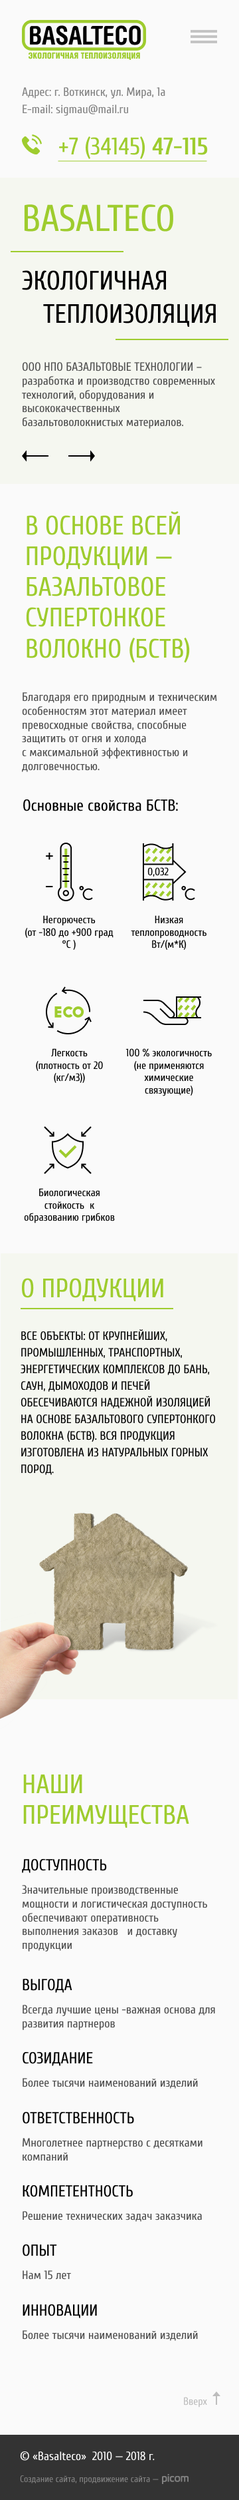
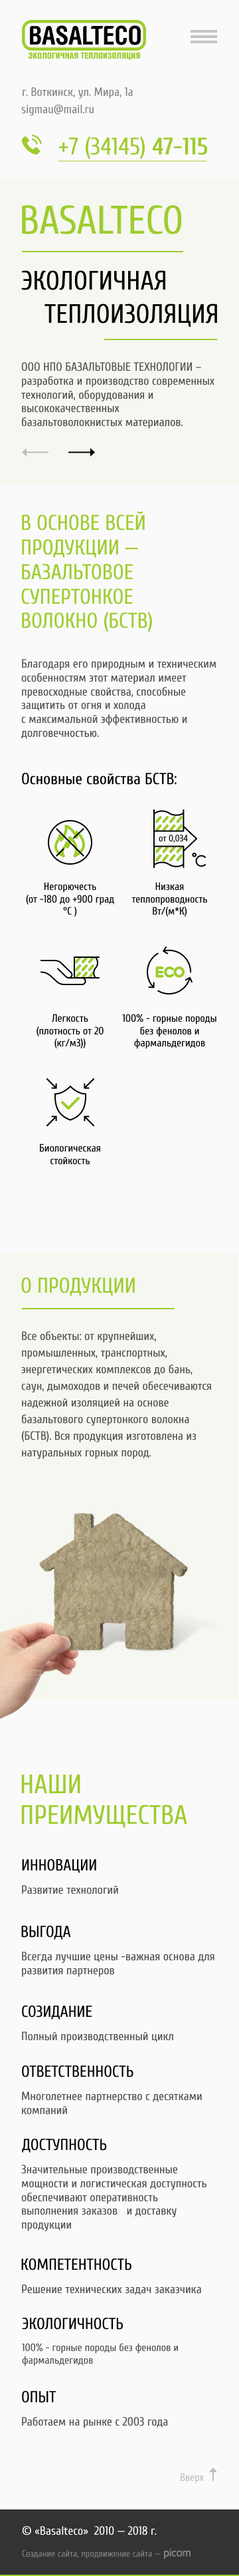
new_fix

diff --git a/app/images/sprite.symbol.html b/app/images/sprite.symbol.html
@@ -67,7 +67,7 @@ for further details on how to create this embeddable sprite variant.
 		<symbol viewBox="0 0 18 15" id="back-arrow" xmlns="http://www.w3.org/2000/svg"><title>back-arrow</title><desc>Created using Figma</desc><use xlink:href="#ca"/><defs><path id="ca" d="M7 4V0L0 7l7 7V9.9c5 0 8.5 1.6 11 5.1-1-5-4-10-11-11z"/></defs></symbol>
 		<symbol viewBox="0 0 510 510" id="email" xmlns="http://www.w3.org/2000/svg"><path d="M459 51H51C22.95 51 0 73.95 0 102v306c0 28.05 22.95 51 51 51h408c28.05 0 51-22.95 51-51V102c0-28.05-22.95-51-51-51zm0 102L255 280.5 51 153v-51l204 127.5L459 102v51z"/></symbol>
 		<symbol viewBox="0 0 30 30" id="fb" xmlns="http://www.w3.org/2000/svg"><title>facebook</title><desc>Created using Figma</desc><g transform="translate(-11073 -4876)"><use xmlns:xlink="http://www.w3.org/1999/xlink" xlink:href="#path0_fill" transform="translate(11073 4876)" fill="#FFF"/><use xlink:href="#path1_fill" transform="translate(11073 4876)" fill="#3A559F"/></g></symbol>
-		<symbol viewBox="0 0 72 72" id="icon_bio" xmlns="http://www.w3.org/2000/svg"><title>icon_bio</title><desc>Created using Figma</desc><g transform="translate(-279 -4283)"><use xlink:href="#fa" transform="translate(303 4313)" fill="#9ECC2E"/><use xlink:href="#fb" transform="translate(292 4295)"/><use xlink:href="#fc" transform="translate(280 4284)"/><use xlink:href="#fd" transform="translate(287.522 4291.47)"/><use xlink:href="#fe" transform="translate(336.325 4284)"/><use xlink:href="#ff" transform="translate(336.318 4291.55)"/><use xlink:href="#fg" transform="translate(336.325 4340.32)"/><use xlink:href="#fh" transform="translate(336.354 4340.37)"/><use xlink:href="#fi" transform="translate(280 4340.32)"/><use xlink:href="#fj" transform="translate(287.53 4340.32)"/></g><defs><path id="fa" d="M9.045 15l-1.399 1.43 1.417 1.386 1.399-1.404L9.045 15zM-1.399 7.574l9.045 8.855 2.799-2.858-9.046-8.855-2.798 2.858zm11.86 8.838l14.955-15-2.832-2.824-14.955 15 2.833 2.824z"/><path id="fb" d="M23 0l.741-.671-.741-.82-.742.82L23 0zM0 11.379v-1h-1v1h1zM23 50.5l-.338.941.338.121.338-.12L23 50.5zm23-39.121h1v-1h-1v1zM23 0c-.742-.67-.741-.67-.741-.671h-.001l-.004.005a8.334 8.334 0 0 1-.1.108 35.615 35.615 0 0 1-1.636 1.599 43.7 43.7 0 0 1-4.816 3.823C11.617 7.656 6.067 10.379 0 10.379v2c6.643 0 12.593-2.967 16.83-5.864a45.692 45.692 0 0 0 5.04-4 37.51 37.51 0 0 0 1.376-1.325 24.027 24.027 0 0 0 .485-.507l.007-.008.002-.003h.001L23 0zM-1 11.379v2.114h2v-2.114h-2zm0 2.114c0 7.762.877 15.453 4.298 22.114 3.44 6.7 9.402 12.258 19.364 15.834l.676-1.882C13.8 46.135 8.262 40.895 5.078 34.693 1.872 28.453 1 21.14 1 13.493h-2zM23.338 51.44c9.962-3.576 15.923-9.134 19.364-15.834C46.122 28.947 47 21.255 47 13.493h-2c0 7.647-.873 14.96-4.077 21.2-3.184 6.202-8.723 11.442-18.26 14.866l.675 1.882zM47 13.493v-2.114h-2v2.114h2zm-1-3.114c-6.063 0-11.613-2.723-15.699-5.515a43.762 43.762 0 0 1-4.818-3.823A35.69 35.69 0 0 1 24.18-.213a21.762 21.762 0 0 1-.415-.433l-.02-.02-.003-.005L23 0c-.741.671-.741.671-.74.672l.002.003a1.73 1.73 0 0 1 .033.036l.096.103a37.588 37.588 0 0 0 1.74 1.702 45.751 45.751 0 0 0 5.042 3.999C33.41 9.412 39.36 12.379 46 12.379v-2z"/><path id="fc" d="M-.707.707L12.968 14.39l1.415-1.413L.707-.707-.707.707z"/><path id="fd" d="M6.127 6.158v1h1v-1h-1zM5.127 0v6.158h2V0h-2zm1 5.158H0v2h6.127v-2z"/><path id="fe" d="M12.968-.707L-.707 12.977.707 14.39 14.383.707 12.968-.707z"/><path id="ff" d="M0 6.13h-1v1h1v-1zm6.154-1H0v2h6.154v-2zM1 6.13V0h-2v6.13h2z"/><path id="fg" d="M14.383 12.977L.707-.707-.707.707 12.968 14.39l1.415-1.413z"/><path id="fh" d="M0 0v-1h-1v1h1zm1 6.158V0h-2v6.158h2zM0 1h6.125v-2H0v2z"/><path id="fi" d="M.707 14.39L14.383.707 12.968-.707-.707 12.977.707 14.39z"/><path id="fj" d="M6.152 0h1v-1h-1v1zM0 1h6.152v-2H0v2zm5.152-1v6.129h2V0h-2z"/></defs></symbol>
+		<symbol viewBox="0 0 72 72" id="icon_bio" xmlns="http://www.w3.org/2000/svg"><title>icon_bio</title><desc>Created using Figma</desc><g transform="translate(-283 -4211)"><use xlink:href="#fa" transform="translate(307 4241)" fill="#9ECC2E"/><use xlink:href="#fb" transform="translate(296 4223)"/><use xlink:href="#fc" transform="translate(284 4212)"/><use xlink:href="#fd" transform="translate(291.522 4219.47)"/><use xlink:href="#fe" transform="translate(340.325 4212)"/><use xlink:href="#ff" transform="translate(340.318 4219.55)"/><use xlink:href="#fg" transform="translate(340.325 4268.32)"/><use xlink:href="#fh" transform="translate(340.354 4268.37)"/><use xlink:href="#fi" transform="translate(284 4268.32)"/><use xlink:href="#fj" transform="translate(291.53 4268.32)"/></g><defs><path id="fa" d="M1.4 4.716a2 2 0 1 0-2.8 2.858l2.8-2.858zM9.044 15l-1.399 1.43a2 2 0 0 0 2.816-.018L9.045 15zM25.416 1.412a2 2 0 0 0-2.832-2.824l2.832 2.824zM-1.399 7.574l9.045 8.855 2.799-2.858-9.046-8.855-2.798 2.858zm11.86 8.838l14.955-15-2.832-2.824-14.955 15 2.833 2.824z"/><path id="fb" d="M23 0l.741-.671a1 1 0 0 0-1.483 0L23 0zM0 11.379v-1a1 1 0 0 0-1 1h1zM23 50.5l-.338.941a1 1 0 0 0 .676 0L23 50.5zm23-39.121h1a1 1 0 0 0-1-1v1zM23 0c-.742-.67-.741-.67-.741-.671h-.001l-.004.005a8.334 8.334 0 0 1-.1.108 35.615 35.615 0 0 1-1.636 1.599 43.7 43.7 0 0 1-4.816 3.823C11.617 7.656 6.067 10.379 0 10.379v2c6.643 0 12.593-2.967 16.83-5.864a45.692 45.692 0 0 0 5.04-4 37.51 37.51 0 0 0 1.376-1.325 24.027 24.027 0 0 0 .485-.507l.007-.008.002-.003h.001L23 0zM-1 11.379v2.114h2v-2.114h-2zm0 2.114c0 7.762.877 15.453 4.298 22.114 3.44 6.7 9.402 12.258 19.364 15.834l.676-1.882C13.8 46.135 8.262 40.895 5.078 34.693 1.872 28.453 1 21.14 1 13.493h-2zM23.338 51.44c9.962-3.576 15.923-9.134 19.364-15.834C46.122 28.947 47 21.255 47 13.493h-2c0 7.647-.873 14.96-4.077 21.2-3.184 6.202-8.723 11.442-18.26 14.866l.675 1.882zM47 13.493v-2.114h-2v2.114h2zm-1-3.114c-6.063 0-11.613-2.723-15.699-5.515a43.762 43.762 0 0 1-4.818-3.823A35.69 35.69 0 0 1 24.18-.213a21.762 21.762 0 0 1-.415-.433l-.02-.02-.003-.005L23 0c-.741.671-.741.671-.74.672l.002.003a1.73 1.73 0 0 1 .033.036l.096.103a37.588 37.588 0 0 0 1.74 1.702 45.751 45.751 0 0 0 5.042 3.999C33.41 9.412 39.36 12.379 46 12.379v-2z"/><path id="fc" d="M.707-.707A1 1 0 0 0-.707.707L.707-.707zm12.26 15.098a1 1 0 0 0 1.415-1.414l-1.414 1.413zM-.706.707L12.968 14.39l1.415-1.413L.707-.707-.707.707z"/><path id="fd" d="M7.127 0a1 1 0 0 0-2 0h2zm-1 6.158v1a1 1 0 0 0 1-1h-1zM0 5.158a1 1 0 1 0 0 2v-2zM5.127 0v6.158h2V0h-2zm1 5.158H0v2h6.127v-2z"/><path id="fe" d="M14.383.707a1 1 0 0 0-1.415-1.414L14.383.707zm-15.09 12.27A1 1 0 1 0 .707 14.39l-1.414-1.413zM12.968-.707L-.707 12.977.707 14.39 14.383.707 12.968-.707z"/><path id="ff" d="M6.154 7.13a1 1 0 1 0 0-2v2zM0 6.13h-1a1 1 0 0 0 1 1v-1zM1 0a1 1 0 0 0-2 0h2zm5.154 5.13H0v2h6.154v-2zM1 6.13V0h-2v6.13h2z"/><path id="fg" d="M12.968 14.39a1 1 0 0 0 1.415-1.413l-1.415 1.413zM.708-.707A1 1 0 1 0-.708.707L.707-.707zm13.675 13.684L.707-.707-.707.707 12.968 14.39l1.415-1.413z"/><path id="fh" d="M-1 6.158a1 1 0 0 0 2 0h-2zM0 0v-1a1 1 0 0 0-1 1h1zm6.125 1a1 1 0 1 0 0-2v2zM1 6.158V0h-2v6.158h2zM0 1h6.125v-2H0v2z"/><path id="fi" d="M-.707 12.977A1 1 0 0 0 .707 14.39l-1.414-1.413zM14.383.707a1 1 0 0 0-1.415-1.414L14.383.707zM.707 14.39L14.382.707 12.969-.707-.707 12.977.707 14.39z"/><path id="fj" d="M0-1a1 1 0 1 0 0 2v-2zm6.152 1h1a1 1 0 0 0-1-1v1zm-1 6.129a1 1 0 1 0 2 0h-2zM0 1h6.152v-2H0v2zm5.152-1v6.129h2V0h-2z"/></defs></symbol>
 		<symbol viewBox="0 0 69 72" id="icon_eco" xmlns="http://www.w3.org/2000/svg"><title>icon_eco</title><desc>Created using Figma</desc><g transform="translate(-282 -4073)"><use xlink:href="#ga" transform="translate(310.174 4105.05)" fill="#9ECC2E"/><use xlink:href="#gb" transform="translate(324.544 4105.05)" fill="#9ECC2E"/><use xlink:href="#gc" transform="translate(297.51 4105.05)" fill="#9ECC2E"/><use xlink:href="#gd" transform="translate(297.51 4111.35)" fill="#9ECC2E"/><use xlink:href="#ge" transform="translate(307.113 4078.71)"/><use xlink:href="#gf" transform="translate(283 4083.41)"/><use xlink:href="#gg" transform="translate(299.187 4119.8)"/><use xlink:href="#gh" transform="translate(307.113 4074)"/><use xlink:href="#gi" transform="translate(285.535 4127.39)"/><use xlink:href="#gj" transform="translate(340.807 4119.8)"/></g><defs><path id="ga" d="M9.306 9.349a4.274 4.274 0 0 1-2.191 1.175l.784 3.923a8.275 8.275 0 0 0 4.24-2.276L9.307 9.35zm-2.191 1.175a4.26 4.26 0 0 1-2.47-.244L3.11 13.974a8.26 8.26 0 0 0 4.789.473l-.784-3.923zm-2.47-.244a4.286 4.286 0 0 1-1.922-1.583l-3.33 2.217a8.286 8.286 0 0 0 3.717 3.06l1.535-3.694zM2.723 8.697A4.32 4.32 0 0 1 2 6.303h-4a8.32 8.32 0 0 0 1.394 4.611l3.33-2.217zM2 6.303c0-.852.252-1.685.723-2.393l-3.33-2.217A8.32 8.32 0 0 0-2 6.303h4zm.723-2.393a4.286 4.286 0 0 1 1.922-1.584L3.11-1.367a8.286 8.286 0 0 0-3.716 3.06l3.33 2.217zm1.922-1.584a4.26 4.26 0 0 1 2.47-.243l.784-3.923a8.26 8.26 0 0 0-4.789.473l1.535 3.693zm2.47-.243a4.274 4.274 0 0 1 2.19 1.175L12.14.435A8.274 8.274 0 0 0 7.899-1.84l-.784 3.923z"/><path id="gb" d="M10.562 6.303c0 2.384-1.924 4.304-4.281 4.304v4c4.58 0 8.28-3.724 8.28-8.304h-4zM6.28 10.607C3.923 10.607 2 8.687 2 6.303h-4c0 4.58 3.7 8.304 8.28 8.304v-4zM2 6.303C2 3.92 3.923 2 6.28 2v-4C1.7-2-2 1.724-2 6.303h4zM6.28 2c2.358 0 4.282 1.92 4.282 4.303h4C14.562 1.724 10.86-2 6.28-2v4z"/><path id="gc" d="M0 0v-2h-2v2h2zm0 12.607h-2v2h2v-2zM7.82-2H0v4h7.82v-4zM-2 0v6.303h4V0h-4zm0 6.303v6.304h4V6.303h-4zm2 8.304h7.82v-4H0v4z"/><path id="gd" d="M7.82-2H0v4h7.82v-4z"/><path id="ge" d="M.259 2.07a31.444 31.444 0 0 1 14.307-.458l.393-1.96A33.444 33.444 0 0 0-.259.137L.26 2.07zm14.307-.458c4.742.95 9.202 2.98 13.038 5.935l1.22-1.585A33.503 33.503 0 0 0 14.96-.348l-.393 1.96zm13.038 5.935a31.65 31.65 0 0 1 9.084 11.107l1.795-.883a33.65 33.65 0 0 0-9.659-11.809l-1.22 1.585zm9.084 11.107a31.772 31.772 0 0 1 3.26 13.993l2-.002a33.773 33.773 0 0 0-3.465-14.874l-1.795.883z"/><path id="gf" d="M10.242 50.324a31.662 31.662 0 0 1-7.515-12.055l-1.891.65a33.661 33.661 0 0 0 7.99 12.817l1.416-1.412zM2.727 38.269A31.755 31.755 0 0 1 1.23 24.127l-1.986-.24A33.755 33.755 0 0 0 .836 38.919l1.89-.65zM1.23 24.127a31.719 31.719 0 0 1 4.824-13.372L4.372 9.672A33.719 33.719 0 0 0-.756 23.887l1.986.24zm4.824-13.372a31.58 31.58 0 0 1 10.17-9.9l-1.038-1.71A33.58 33.58 0 0 0 4.372 9.672l1.682 1.083z"/><path id="gg" d="M46.811-.258a31.703 31.703 0 0 1-6.771 12.691l1.505 1.318c3.4-3.884 5.863-8.5 7.198-13.493l-1.932-.516zM40.04 12.433a31.551 31.551 0 0 1-11.668 8.37l.765 1.848a33.552 33.552 0 0 0 12.408-8.9l-1.505-1.318zm-11.668 8.37a31.444 31.444 0 0 1-14.154 2.32l-.135 1.996a33.443 33.443 0 0 0 15.054-2.468l-.765-1.848zm-14.154 2.32A31.464 31.464 0 0 1 .503 18.915l-1.006 1.728a33.464 33.464 0 0 0 14.586 4.476l.135-1.996z"/><path id="gh" d="M0 5.81l-.826-.563-.594.872.902.546L0 5.81zM3.13-.563l-3.956 5.81L.826 6.373 4.784.563 3.13-.563zM-.517 6.665l6.021 3.646L6.54 8.6.518 4.954-.518 6.665z"/><path id="gi" d="M6.991 7.057l-.076.997 1.056.081.02-1.058-1-.02zm-7.067.463l6.991.534.153-1.994-6.992-.534-.152 1.994zm8.067-.443L8.13.019l-2-.038-.138 7.057 2 .039z"/><path id="gj" d="M6.157 0l.902-.432-.458-.957-.929.514.485.875zm3.938 5.91L7.059-.431 5.255.432 8.29 6.774l1.804-.863zM5.672-.874l-6.157 3.41.97 1.75L6.64.875l-.969-1.75z"/></defs></symbol>
 		<symbol viewBox="0 0 88 43" id="icon_l" xmlns="http://www.w3.org/2000/svg"><title>icon_l</title><desc>Created using Figma</desc><g transform="translate(-428 -4088)"><use xlink:href="#ha" transform="translate(482 4090)" fill="#9ECC2E"/><use xlink:href="#hb" transform="translate(429 4094)"/><use xlink:href="#hc" transform="translate(429 4111.49)"/><use xlink:href="#hd" transform="translate(479 4089)"/><use xlink:href="#he" transform="translate(508.559 4089)"/><use xlink:href="#hf" transform="translate(506 4120)"/></g><defs><path id="ha" d="M3.654-1.282l-5.189 6.21 3.07 2.564 5.188-6.21-3.07-2.564zm9.906 0l-5.19 6.21 3.07 2.564 5.19-6.21-3.07-2.564zm9.905 0l-5.189 6.21 3.07 2.564 5.189-6.21-3.07-2.564zM3.654 10.573l-5.189 6.21 3.07 2.565 5.188-6.21-3.07-2.565zm9.906 0l-5.19 6.21 3.07 2.565 5.19-6.21-3.07-2.565zm9.905 0l-5.189 6.21 3.07 2.565 5.189-6.21-3.07-2.565zM3.654 21.508l-5.189 6.21 3.07 2.564 5.188-6.21-3.07-2.564zm9.906 0l-5.19 6.21 3.07 2.564 5.19-6.21-3.07-2.564zm9.905 0l-5.189 6.21 3.07 2.564 5.189-6.21-3.07-2.564z"/><path id="hb" d="M20.447 0v1h.003l-.003-1zm10.005 4.007l.695-.719-.002-.002-.693.721zM44.883 17.96l-.695.72.005.004.69-.724zm-3.498 8.164v1-1zm-3.497-1.401l-.695.719.004.004.691-.723zM0 1h20.447v-2H0v2zm20.45 0a13.399 13.399 0 0 1 9.31 3.729l1.385-1.443A15.398 15.398 0 0 0 20.445-1l.005 2zm9.307 3.726l14.43 13.952 1.391-1.438-14.43-13.952-1.39 1.438zm14.436 13.957c.36.343.647.756.842 1.213l1.839-.788a5.68 5.68 0 0 0-1.3-1.872l-1.381 1.447zm.842 1.213c.196.457.297.948.297 1.445h2c0-.768-.156-1.527-.458-2.233l-1.839.788zm.297 1.445c0 .496-.1.987-.297 1.444l1.839.788a5.669 5.669 0 0 0 .458-2.232h-2zm-.297 1.444c-.195.457-.482.87-.842 1.213l1.38 1.448a5.68 5.68 0 0 0 1.3-1.873l-1.838-.788zM44.192 24a4.063 4.063 0 0 1-2.806 1.124v2c1.56 0 3.06-.6 4.188-1.678L44.192 24zm-2.806 1.124a4.063 4.063 0 0 1-2.807-1.124l-1.382 1.446a6.063 6.063 0 0 0 4.188 1.678v-2zm-2.803-1.12l-12.78-12.36-1.39 1.438 12.78 12.36 1.39-1.438z"/><path id="hc" d="M13.588 5.182l.671-.742-.003-.003-.668.745zm10.17 9.192l-.67.742.003.002.668-.744zm10.86 4.14v-1h-.003l.002 1zM.002 1a19.284 19.284 0 0 1 12.919 4.926l1.335-1.489A21.285 21.285 0 0 0-.002-1l.004 2zm12.916 4.924l10.17 9.191 1.341-1.483L14.26 4.44l-1.341 1.484zm10.173 9.194a17.209 17.209 0 0 0 11.529 4.397l-.005-2a15.209 15.209 0 0 1-10.188-3.886l-1.336 1.489zm11.526 4.397H61.58v-2H34.618v2zm26.963 0c3.342 0 6.107-2.627 6.107-5.939h-2c0 2.145-1.806 3.939-4.107 3.939v2zm6.107-5.939c0-3.312-2.775-5.938-6.107-5.938v2c2.294 0 4.107 1.795 4.107 3.938h2zM61.58 7.638H40.742v2H61.58v-2z"/><path id="hd" d="M32.02 31v1h2.112l-1.338-1.634-.774.634zm.075-14.977l-.774-.633-.004.005.778.628zm.136-.166l.774.632.002-.002-.776-.63zM31.454.033l.721-.692-.256-.268-.37-.035-.095.995zM31.11 0l.096-.995L31.158-1h-.048v1zM0 0v-1h-1v1h1zm0 31h-1v1h1v-1zm32.794-.634c-3.437-4.197-3.352-9.466.08-13.715l-1.557-1.256c-3.999 4.953-4.134 11.276-.07 16.239l1.547-1.268zm.076-13.711l.136-.166-1.55-1.265-.135.166 1.55 1.265zm.137-.168c2.074-2.554 3.13-5.59 2.979-8.689l-1.998.098c.126 2.565-.743 5.125-2.534 7.33l1.553 1.261zm2.979-8.689c-.153-3.098-1.502-6.05-3.81-8.457L30.731.725c2.011 2.098 3.13 4.604 3.256 7.171l1.998-.098zM31.55-.962l-.344-.033-.192 1.99.344.034.192-1.991zM31.11-1H0v2h31.11v-2zM-1 0v31h2V0h-2zm1 32h32.02v-2H0v2z"/><path id="he" d="M0 1h7.44v-2H0v2z"/><path id="hf" d="M0 1h10v-2H0v2z"/></defs></symbol>
 		<symbol viewBox="0 0 67 67" id="icon_tem" xmlns="http://www.w3.org/2000/svg"><title>icon_nonf</title><desc>Created using Figma</desc><g transform="translate(-285 -3883)"><use xlink:href="#ia" transform="translate(297 3892)" fill="#9ECC2E"/><mask id="ic"><use xlink:href="#ib" fill="#fff" transform="rotate(180 176 1975)"/></mask><g mask="url(#ic)"><use xlink:href="#id" transform="rotate(180 176 1975)"/></g><use xlink:href="#ie" transform="rotate(180 154.225 1968.3)"/><use xlink:href="#if" transform="rotate(180 169.3 1954.9)"/><g><use xlink:href="#ig" transform="rotate(90 -1778.9 2117.5)"/></g></g><defs><path id="ia" d="M11.824 45l-.913 1.78a2 2 0 0 0 2.681-2.714L11.824 45zm.97-12.899l1.599 1.202-1.599-1.202zm3.413-7.182l1.528-1.291a2 2 0 0 0-3.49.907l1.962.384zm1.28 6.47l-1.955-.422a2 2 0 0 0 3.378 1.828l-1.423-1.406zM21 17.154l1.073-1.687a2 2 0 0 0-3.016 2.162L21 17.154zM28.65 45l-1.742-.983a2 2 0 0 0 2.657 2.761L28.65 45zm3.078-35.804l1.105-1.667a2 2 0 0 0-2.892 2.565l1.787-.898zm-.945 7.958l-1.921.557a2 2 0 0 0 3.18.998l-1.259-1.555zM15.366 0l.616-1.903a2 2 0 0 0-2.59 2.227L15.366 0zm-7.29 21.129l-1.996.129a2 2 0 0 0 3.485 1.206L8.076 21.13zm-1.963-7.308l1.713-1.033a2 2 0 0 0-3.707.891l1.994.143zM.403 27.95l1.95.443-1.95-.443zm13.19 16.117c-1.466-2.773-1.697-4.732-1.449-6.245.256-1.56 1.064-2.941 2.249-4.518L11.196 30.9c-1.293 1.72-2.583 3.736-2.999 6.275-.424 2.585.099 5.428 1.858 8.76l3.537-1.868zm.8-10.763a22.446 22.446 0 0 0 2.993-5.432c.283-.74.475-1.36.598-1.805a13.922 13.922 0 0 0 .17-.688l.01-.048a2.77 2.77 0 0 0 .005-.022v-.003c0-.001 0-.002-1.962-.386-1.963-.384-1.963-.385-1.962-.385v-.001-.002-.002s0-.001 0 0l-.002.013-.019.083c-.019.08-.05.208-.097.377-.093.337-.245.835-.477 1.44a18.445 18.445 0 0 1-2.454 4.457l3.197 2.404zm1.814-8.384a210.916 210.916 0 0 1-1.529 1.29v-.002l-.003-.002-.004-.005-.005-.006a.044.044 0 0 1-.002-.003l.024.032c.029.04.08.11.144.213.128.205.305.527.465.948.316.833.566 2.054.235 3.583l3.91.845c.523-2.418.132-4.432-.405-5.847a9.44 9.44 0 0 0-.814-1.65 7.38 7.38 0 0 0-.463-.656l-.014-.017-.006-.008a.09.09 0 0 0-.003-.003l-.001-.002s-.001-.001-1.529 1.29zm2.703 7.875c2.312-2.342 3.428-5.805 3.931-8.742.503-2.936.476-5.841.102-7.372l-3.886.95c.195.798.295 3.101-.158 5.746-.453 2.643-1.38 5.133-2.835 6.608l2.846 2.81zm1.017-13.952c3.757 2.39 6.648 6.716 8.007 11.548 1.36 4.837 1.097 9.865-1.026 13.627l3.484 1.966c2.783-4.93 2.955-11.117 1.392-16.675-1.563-5.563-4.95-10.814-9.71-13.841l-2.147 3.375zm9.638 27.936c6.785-3.493 10.846-7.548 12.866-11.876 2.03-4.35 1.878-8.712.74-12.56-1.128-3.819-3.24-7.19-5.247-9.727-1.986-2.509-4-4.362-5.09-5.086l-2.212 3.333c.616.41 2.332 1.918 4.166 4.236 1.813 2.29 3.611 5.208 4.548 8.378.928 3.14.997 6.464-.53 9.734-1.535 3.29-4.809 6.787-11.072 10.012l1.831 3.556zm.376-36.684c.409.815.676 1.987.607 3.11-.07 1.12-.448 1.93-1.023 2.396l2.516 3.109c1.724-1.395 2.386-3.432 2.499-5.259.113-1.825-.297-3.702-1.025-5.152l-3.574 1.796zm2.763 6.504C30.617 9.397 26.468 4.774 22.84 1.962a27.672 27.672 0 0 0-4.733-2.965 21.341 21.341 0 0 0-1.501-.67 13.829 13.829 0 0 0-.616-.227l-.005-.002h-.003s-.002 0-.617 1.902a222.508 222.508 0 0 1-.617 1.902h-.002-.002V1.9l.01.003.067.024c.065.023.17.062.309.117.278.111.696.288 1.216.543a23.67 23.67 0 0 1 4.043 2.536c3.109 2.409 6.668 6.363 8.472 12.587l3.842-1.113zM13.392.324c1.013 6.16-2.01 14.123-6.805 19.47l2.978 2.67c5.352-5.967 9.037-15.102 7.774-22.788l-3.947.648zM10.072 21c-.184-2.846-.396-5.148-2.246-8.212L4.4 14.855c1.34 2.22 1.507 3.728 1.68 6.403L10.071 21zM4.12 13.68c-.145 2.023-1.074 3.95-2.324 6.245C.613 22.095-.9 24.66-1.547 27.507l3.9.885c.495-2.177 1.657-4.17 2.955-6.554 1.23-2.259 2.587-4.883 2.8-7.874l-3.99-.285zm-5.666 13.826c-.862 3.796-.57 7.32 1.549 10.626 2.048 3.196 5.662 5.957 10.909 8.648l1.825-3.56c-5.016-2.572-7.884-4.934-9.367-7.247-1.411-2.202-1.698-4.572-1.015-7.58l-3.901-.887z"/><path id="ib" d="M67 33.5C67 52.002 52.002 67 33.5 67 14.998 67 0 52.002 0 33.5 0 14.998 14.998 0 33.5 0 52.002 0 67 14.998 67 33.5z"/><path id="id" d="M65 33.5C65 50.897 50.897 65 33.5 65v4C53.106 69 69 53.106 69 33.5h-4zM33.5 65C16.103 65 2 50.897 2 33.5h-4C-2 53.106 13.894 69 33.5 69v-4zM2 33.5C2 16.103 16.103 2 33.5 2v-4C13.894-2-2 13.894-2 33.5h4zM33.5 2C50.897 2 65 16.103 65 33.5h4C69 13.894 53.106-2 33.5-2v4z"/><path id="ie" d="M-.707 9.343a1 1 0 1 0 1.414 1.414L-.707 9.343zM10.757.707A1 1 0 0 0 9.343-.707L10.757.707zM.707 10.757L10.757.707 9.343-.707-.707 9.343l1.414 1.414z"/><path id="if" d="M-.678 12.665a1 1 0 0 0 1.356 1.47l-1.356-1.47zM15.195.735a1 1 0 1 0-1.357-1.47l1.357 1.47zM.678 14.135L15.195.735l-1.357-1.47-14.516 13.4 1.356 1.47z"/><path id="ig" d="M-.707 39.493a1 1 0 1 0 1.414 1.414l-1.414-1.414zM40.907.707a1 1 0 0 0-1.414-1.414L40.907.707zm-40.2 40.2l40.2-40.2-1.414-1.414-40.2 40.2 1.414 1.414z"/></defs></symbol>
@@ -603,7 +603,7 @@ SVG sprite. They may be styled via CSS. (IE 9-11 with polyfill only)
 
 		</section>
 		<footer>
-			<p>Generated at Fri, 16 Mar 2018 05:39:25 GMT by <a href="https://github.com/jkphl/svg-sprite" target="_blank">svg-sprite</a>.</p>
+			<p>Generated at Sat, 17 Mar 2018 09:08:58 GMT by <a href="https://github.com/jkphl/svg-sprite" target="_blank">svg-sprite</a>.</p>
 		</footer>
 	</body>
 </html>

diff --git a/app/styles/_header/_header.scss b/app/styles/_header/_header.scss
@@ -64,8 +64,7 @@ header.header{
   p, a{
     color: $nimpTxt;
     font: $fBase;
-    margin-left: 1px;
-    margin-top: 8px;
+    margin: 8px 0;
   }
   a{
     text-decoration: none;
@@ -121,6 +120,9 @@ header.header{
         @media(min-width:$medium) and (max-width: $ipad){
           font: $fBase;
         }
+        @media(min-width:$large){
+          border-bottom: none;
+        }
       .weight{
         font: $fWidth;
       @media(min-width:$medium) and (max-width: $ipad){
@@ -142,11 +144,13 @@ header.header{
         @media(min-width:$large){
           width: 20px;
           height: 20px;
+          margin-right:10px;
         }
           @media(min-width:$medium) and (max-width: $ipad){
             margin-right: 5px;
             width: 15px;
             height: 15px;
+            margin-bottom:0;
           }
     }
     @media(min-width: $large){
@@ -244,6 +248,8 @@ header.header.gamburger-menu-open{
     display: block;
     width: 100%;
     margin-top: 25px;
+    border-bottom: 1px $borderMenu solid;
+    padding-bottom: 25px;
     ul{
       display: flex;
       justify-content: space-between;

diff --git a/app/styles/_info.scss b/app/styles/_info.scss
@@ -27,40 +27,3 @@
   color: $articleTxt;
 
 }
-
-/*
-$impTxt: #9ECC2E;
-$regTxt; #000000;
-$nimpTxt: #828282;
-$pText: #4F4F4F;
-$footTxt: #FFFFFF;
-$gamb: #C4C4C4;
-$gambActive: #9ECC2E;
-$add: #C4C4C4;
-$borderMenu: #E0E0E0;
-$background:#F2F2F2;
-$sliderBg: #F5F7F0;
-$footerBg:#333333;
-$footerh3:#BDBDBD;
-$articleTxt: #636363;
-$small: 360px;
-$tablet: 600px;
-$medium: 720px;
-$ipad: 1024px;
-$large: 1200px
-$fTiny: 14px/48px cuprum-regular, arial;
-$fSmall: 16px/20px cuprum-regular, arial;
-$fBase: 18px/20px cuprum-regular, arial;
-$fadaptive: 20px/22px cuprum-regular, arial;
-$fMedium: 24px/30px cuprum-regular, arial;
-$fWidth: 36px/40px cuprum-bold, arial;
-$fphone: 36px/40px cuprum-regular, arial;
-$fWidth_min: 30px/40px cuprum-bold, arial;
-$fphone_min: 30px/40px cuprum-regular, arial;
-$fBig: 40px/46px cuprum-regular, arial;
-$fBigest: 56px/60px cuprum-regular, arial;
-$fh2: 30px/40px cuprum-regular, arial;
-$fbigh1: 70px/72px cuprum-regular, arial;
-$fbigh2: 60px/64px cuprum-regular, arial;
-
-*/

diff --git a/app/styles/_slider.scss b/app/styles/_slider.scss
@@ -33,8 +33,7 @@
 .slider-h1{
   font: $fBigest;
   color: #9ECC2E;
-  margin-left: 2px;
-  margin-top: -2px;
+  margin-top: 0;
   text-transform: uppercase;
   @media(min-width:$large){
     font: $fbigh1;
@@ -54,11 +53,10 @@
   }
   &:before{
     top: -21px;
-    left: -15px;
   }
   &:after{
     bottom: 4px;
-    right: -15px;
+    right: 0px;
   }
   @media(min-width:$large){
     max-width: 500px;
@@ -72,7 +70,6 @@
   span:first-of-type{
     float: left;
     margin-top: -18px;
-    margin-left: 2px;
   }
   span:nth-of-type(2){
     float: right;
@@ -95,7 +92,6 @@
   font: $fBase;
   color: $pText;
   margin-top: 30px;
-  margin-left: 1px;
   @media(min-width:$large){
     font: $fSmall;
     max-width: 340px;
@@ -116,8 +112,7 @@
 }
 .arrowleft{
   transform: rotate(180deg);
-  left: 2px;
 }
 .arrowright{
-  left: 72px;
+  left: 70px;
 }

diff --git a/app/styles/_properties.scss b/app/styles/_properties.scss
@@ -11,17 +11,19 @@
   display: flex;
   flex-wrap: wrap;
   margin-top: 40px;
+  margin-left: -15px;
+  margin-right: -15px;
 }
 .properties-item{
   width: calc(100% / 2 - 30px);
-  margin: 0 15px 11px 15px;
+  margin: 0 15px;
   text-align: center;
   display: flex;
   flex-direction: column;
   figcaption{
     color: $regTxt;
     font: $fSmall;
-    margin: 30px 0;
+    margin: 15px 0;
   }
   @media(min-width: $tablet){
       width: calc(100% / 3 - 30px);
@@ -29,4 +31,12 @@
   @media(min-width: $large){
       width: calc(100% / 5 - 30px);
   }
+}
+.properties-img{
+  width: 100px;
+  height: 100px;
+  display: flex;
+  justify-content: center;
+  align-items: center;
+  margin: 0 auto;
 }

diff --git a/app/styles/_common.scss b/app/styles/_common.scss
@@ -38,7 +38,6 @@ h2, .h2{
   font: $fh2;
   color: $gambActive;
   text-transform: uppercase;
-  margin: 9px 6px;
 }
 h2.bordered, .h2.bordered{
   display: inline-block;
@@ -60,16 +59,18 @@ h4, .h4{
   display: flex;
   justify-content: space-between;
 }
-p{
-  margin: 20px auto;
-  font: $fBase;
-  color: $articleTxt;
-}
-h3{
-  font: $fMedium;
-  color: $pText;
-  text-transform: none;
-}
+
+  p{
+    margin: 20px auto;
+    font: $fBase;
+    color: $articleTxt;
+  }
+  h5{
+    font: $fadaptive;
+    color: $pText;
+    text-transform: none;
+  }
+.content{
 ul, ol{
   margin-top: 30px;
 }
@@ -87,4 +88,5 @@ li{
     height: 1px;
     background: $pText;
   }
+}
 }

diff --git a/app/styles/_about.scss b/app/styles/_about.scss
@@ -1,5 +1,6 @@
 .about {
   background: $sliderBg;
+  position:relative;
 }
 .about-wrap{
   @media(min-width:$tablet) {
@@ -8,9 +9,7 @@
 }
 .about-text{
   p{
-    text-transform: uppercase;
-    color: $regTxt;
-    font: $fBase;
+    line-height: 1.5;
   }
   @media(min-width:$tablet){
     width:calc(100% / 2 - 15px);
@@ -49,4 +48,12 @@
     }
   }
     @media(min-width:$tablet) {}
+    @media(min-width:$large) {
+    img{
+      position: absolute;
+      left: 0;
+      top: 0;
+      width: 530px;
+    }
+  }
 }

diff --git a/app/styles/_pluses.scss b/app/styles/_pluses.scss
@@ -1,16 +1,21 @@
 .pluses-wrap{
   @media(min-width:$tablet){
-  column-width: 50%;
-  column-count: 2;
-  column-gap: 30px;
+  display: flex;
+  flex-wrap: wrap;
+  justify-content: space-between;
+  margin: 0 -15px;
   }
   @media(min-width:$large){
     display: flex;
-    margin: 0 -15px;
+
     flex-wrap: wrap;
   }
 }
 .plus-item{
+  @media(min-width:$tablet){
+    width: calc(100% / 2 - 30px);
+    margin: 0 15px;
+  }
   @media(min-width:$large){
     width: calc(100% / 4 - 30px);
     margin: 0 15px;

diff --git a/app/styles/_typography.scss b/app/styles/_typography.scss
@@ -26,7 +26,7 @@
 /**
 * VARS
 **/
-$fTiny: 14px/48px cuprum-regular, arial;
+$fTiny: 14px/18px cuprum-regular, arial;
 $fSmall: 16px/20px cuprum-regular, arial;
 $fBase: 18px/20px cuprum-regular, arial;
 $fadaptive: 20px/22px cuprum-regular, arial;

diff --git a/app/styles/_footer/_footer.scss b/app/styles/_footer/_footer.scss
@@ -1,4 +1,5 @@
 .footer{
+  margin-top: 100px;
   background: $footerBg;
   border-bottom: $gambActive 2px solid;
   h3{
@@ -8,7 +9,6 @@
   }
 }
 .copy{
-  margin-bottom: 20px;
   color: $footTxt;
   font: $fBase;
   @media(min-width:$tablet){
